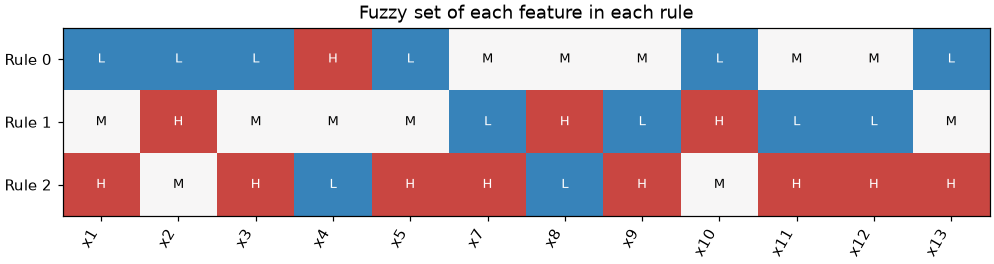
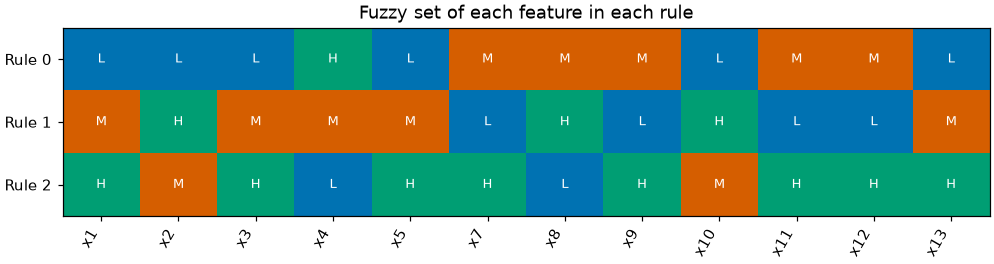
fix: the table of the rule base uses the colours of the fuzzy sets

diff --git a/highfis/plotting.py b/highfis/plotting.py
@@ -68,18 +68,16 @@ class PlotTheme:
 
     Attributes:
         colors: Colours of the things that are told apart by name: the fuzzy sets of a
-            feature, the training and validation curves, the classes.
+            feature, in the membership plot and in the table of the rule base, the training
+            and validation curves, the classes.
         sequential: Colormap of the tables whose cells are amounts, from little to much:
             the confusion matrix and the rule activation.
-        diverging: Colormap of the table of the rule base, from the lowest fuzzy set of a
-            feature to the highest.
         reference: Colour of the lines that mark a reference: thresholds, the decision
             boundary, the best epoch.
     """
 
     colors: tuple[str, ...] = _OKABE_ITO
     sequential: str = "Blues"
-    diverging: str = "RdBu_r"
     reference: str = "0.4"
 
 
@@ -95,7 +93,6 @@ def set_plot_theme(
     *,
     colors: Sequence[str] | None = None,
     sequential: str | None = None,
-    diverging: str | None = None,
     reference: str | None = None,
 ) -> PlotTheme:
     """Change the colours of every plot drawn from now on.
@@ -106,14 +103,13 @@ def set_plot_theme(
     Args:
         colors: Colours of the things told apart by name, in the order they are used.
         sequential: Colormap of the confusion matrix and of the rule activation.
-        diverging: Colormap of the table of the rule base.
         reference: Colour of the reference lines.
 
     Returns:
         The theme now in use.
     """
     global _theme
-    changes: dict[str, Any] = {"sequential": sequential, "diverging": diverging, "reference": reference}
+    changes: dict[str, Any] = {"sequential": sequential, "reference": reference}
     if colors is not None:
         if len(colors) == 0:
             raise ValueError("colors must have at least one colour")
@@ -655,15 +651,16 @@ def plot_rules(
     *,
     max_features: int = 12,
     set_names: Sequence[str] | None = None,
+    colors: Sequence[str] | None = None,
     cmap: str | None = None,
     ax: Any = None,
 ) -> Any:
     """Plot the rule base as a table: one row per rule, one column per feature.
 
-    Each cell is the fuzzy set that the rule uses on the feature, coloured from the lowest
-    set of the feature to the highest (blue to red by default) and, in small rule bases, labelled with
-    the initials of its name: ``VL`` for *very low*, ``M`` for *medium*. A blank cell is a
-    feature that the rule does not use.
+    Each cell is the fuzzy set that the rule uses on the feature. A set has the colour it
+    has in :func:`plot_memberships`, the first colour for the lowest set of a feature, and
+    in small rule bases it is labelled with the initials of its name: ``VL`` for *very
+    low*, ``M`` for *medium*. A blank cell is a feature that the rule does not use.
 
     Args:
         estimator: A fitted estimator.
@@ -672,8 +669,11 @@ def plot_rules(
             ones when the model has more.
         max_features: Number of features shown when ``features`` is ``None``.
         set_names: Names of the fuzzy sets of a feature, as in :func:`plot_memberships`.
-        cmap: Colormap of the cells. ``None`` uses the diverging colormap of the theme
-            (see :func:`set_plot_theme`).
+        colors: Colours of the fuzzy sets, from the lowest to the highest. ``None`` uses the
+            theme (see :func:`set_plot_theme`).
+        cmap: Colormap that shades the cells from the lowest set to the highest, in place
+            of one colour per set. It is also what is used, with the sequential colormap
+            of the theme, when a feature has more sets than there are colours.
         ax: Axes to draw on. ``None`` creates a new figure.
         show: Display the figure and return nothing (``True``), or return it without
             displaying (``False``). ``None`` displays in an interactive session or a
@@ -689,14 +689,16 @@ def plot_rules(
     mf_params = estimator.get_mf_params()
     table = estimator.model_.get_rule_table()
 
-    levels = np.full((len(table), len(positions)), np.nan)
+    levels = np.full((len(table), len(positions)), np.nan)  # position of the set among those of its feature
+    n_sets = 1
     text: list[list[str]] = [["" for _ in positions] for _ in table]
     for column, position in enumerate(positions):
         name = model_names[position]
         names = _set_labels(mf_params[name], set_names)
         located = (j for j, label in enumerate(names) if label is not None)
         order = sorted(located, key=lambda j: _set_position(mf_params[name][j]))
-        rank = {j: (i / (len(order) - 1) if len(order) > 1 else 0.5) for i, j in enumerate(order)}
+        rank = {j: i for i, j in enumerate(order)}
+        n_sets = max(n_sets, len(order))
         for row, rule in enumerate(table):
             j = int(rule[name])
             if j in rank:
@@ -705,9 +707,14 @@ def plot_rules(
 
     size = (max(3.6, 0.62 * len(positions) + 1.6), max(2.4, 0.3 * len(table) + 1.4))
     _, (panel,) = _axes(ax, 1, ncols=1, panel_size=size)
-    # The range is wider than the values, so that the two ends of the colormap, its darkest
-    # colours, are not used: the labels stay readable.
-    image = panel.imshow(levels, cmap=cmap or _theme.diverging, aspect="auto", vmin=-0.25, vmax=1.25)
+    palette = _colours(colors)
+    if cmap is None and n_sets <= len(palette):
+        from matplotlib.colors import ListedColormap
+
+        shades: Any = ListedColormap(list(palette[:n_sets]), name="fuzzy sets")
+        image = panel.imshow(levels, cmap=shades, aspect="auto", vmin=-0.5, vmax=n_sets - 0.5)
+    else:
+        image = panel.imshow(levels, cmap=cmap or _theme.sequential, aspect="auto", vmin=0.0, vmax=max(n_sets - 1, 1))
     if levels.size <= _RULE_TABLE_MAX_ANNOTATED_CELLS:
         for (row, column), value in np.ndenumerate(levels):
             if not np.isnan(value):

diff --git a/tests/test_plotting.py b/tests/test_plotting.py
@@ -458,7 +458,7 @@ def test_rules_table_has_the_set_of_each_rule_and_feature(clf: Any) -> None:
 
     assert levels.shape == (len(table), 6)
     # Each feature has three sets, and each rule of the compact rule base uses one of them.
-    assert all(sorted(column) == [0.0, 0.5, 1.0] for column in levels.T.tolist())
+    assert all(sorted(column) == [0.0, 1.0, 2.0] for column in levels.T.tolist())
     first = clf.get_mf_params()[clf.model_.input_names[0]]
     lowest = int(np.argmin([params["mean"] for params in first]))
     assert levels[lowest, 0] == 0.0
@@ -499,29 +499,36 @@ def test_every_plot_uses_the_colours_of_the_theme(clf: Any) -> None:
 
     assert [_hex(line.get_color()) for line in clf.plot_history().lines[:2]] == [_hex(c) for c in theme.colors[:2]]
     assert _hex(clf.plot_feature_importance().patches[0].get_facecolor()) == _hex(theme.colors[0])
-    assert clf.plot_rules().images[0].get_cmap().name == theme.diverging
+    # The table of the rule base gives each fuzzy set the colour it has in the membership plot.
+    table = clf.plot_rules().images[0]
+    assert [_hex(table.cmap(table.norm(rank))) for rank in range(3)] == [_hex(c) for c in theme.colors[:3]]
+    curves = clf.plot_memberships().axes[0].lines
+    assert sorted(_hex(line.get_color()) for line in curves) == sorted(_hex(c) for c in theme.colors[:3])
     assert clf.plot_rule_activation(x, y).images[0].get_cmap().name == theme.sequential
     assert clf.plot_diagnostics(x, y).axes[0].images[0].get_cmap().name == theme.sequential
 
 
 def test_the_theme_changes_the_colours_of_the_next_plots(clf: Any, _theme: None) -> None:
     x, y, _ = _data()
-    theme = highfis.set_plot_theme(colors=["black", "red"], sequential="Greys", diverging="PuOr")
+    theme = highfis.set_plot_theme(colors=["black", "red"], sequential="Greys")
 
     assert theme.colors == ("black", "red")
     assert theme.reference == "0.4"  # what is not given is kept
     assert [_hex(line.get_color()) for line in clf.plot_history().lines[:2]] == ["#000000", "#ff0000"]
-    assert clf.plot_rules().images[0].get_cmap().name == "PuOr"
+    # Three fuzzy sets and two colours: the table is shaded with the sequential colormap.
+    assert clf.plot_rules().images[0].get_cmap().name == "Greys"
     assert clf.plot_rule_activation(x, y).images[0].get_cmap().name == "Greys"
 
     assert highfis.reset_plot_theme() == plotting.PlotTheme()
-    assert clf.plot_rules().images[0].get_cmap().name == plotting.PlotTheme().diverging
+    assert clf.plot_rules().images[0].get_cmap().name == "fuzzy sets"
 
 
 def test_a_call_can_choose_its_own_colours(clf: Any) -> None:
     x, y, _ = _data()
 
     assert clf.plot_rules(cmap="viridis").images[0].get_cmap().name == "viridis"
+    table = clf.plot_rules(colors=["white", "grey", "black"]).images[0]
+    assert [_hex(table.cmap(table.norm(rank))) for rank in range(3)] == ["#ffffff", "#808080", "#000000"]
     assert clf.plot_diagnostics(x, y, cmap="Greys").axes[0].images[0].get_cmap().name == "Greys"
     assert _hex(clf.plot_feature_importance(colors=["green"]).patches[0].get_facecolor()) == "#008000"
     lines = clf.plot_memberships(colors=["black", "red", "blue"]).axes[0].lines

diff --git a/docs/guides/plotting.md b/docs/guides/plotting.md
@@ -126,8 +126,8 @@ ax = clf.plot(kind="rules")
 ![The fuzzy set that each rule uses on each feature](../assets/plots/rules.png)
 
 One row per rule and one column per feature. Each cell is the fuzzy set that the rule
-uses on the feature, coloured from the lowest set (blue) to the highest (red) and, in
-small rule bases, labelled with the initials of its name: `L`, `M`, `H`. It is the
+uses on the feature, in the colour that the set has in the plot of the membership
+functions and, in small rule bases, labelled with the initials of its name: `L`, `M`, `H`. It is the
 complete antecedent part of the model in one figure, where `rules_as_text()` writes one
 rule at a time. `features`, `max_features` and `set_names` work as for the membership
 functions.
@@ -252,7 +252,6 @@ import highfis
 highfis.set_plot_theme(
     colors=["#1b9e77", "#d95f02", "#7570b3"],  # fuzzy sets, curves, classes
     sequential="Greys",                         # confusion matrix, rule activation
-    diverging="PuOr",                           # table of the rule base
 )
 highfis.reset_plot_theme()                      # back to the colours of the package
 ```
@@ -269,7 +268,7 @@ clf.plot(kind="memberships", colors=["black", "grey", "silver"])
 |---|---|---|
 | `"memberships"` | the fuzzy sets, from the lowest to the highest | |
 | `"history"` | the training and the validation curve | |
-| `"rules"` | | the cells, from the lowest set to the highest |
+| `"rules"` | the fuzzy sets, from the lowest to the highest | shades from the lowest set to the highest, in place of one colour per set |
 | `"rule_activation"` | the bars, without `y` | the table, with `y` |
 | `"diagnostics"` | the classes, or the points of a regressor | the confusion matrix |
 | `"feature_importance"`, `"gates"` | the bars | |
